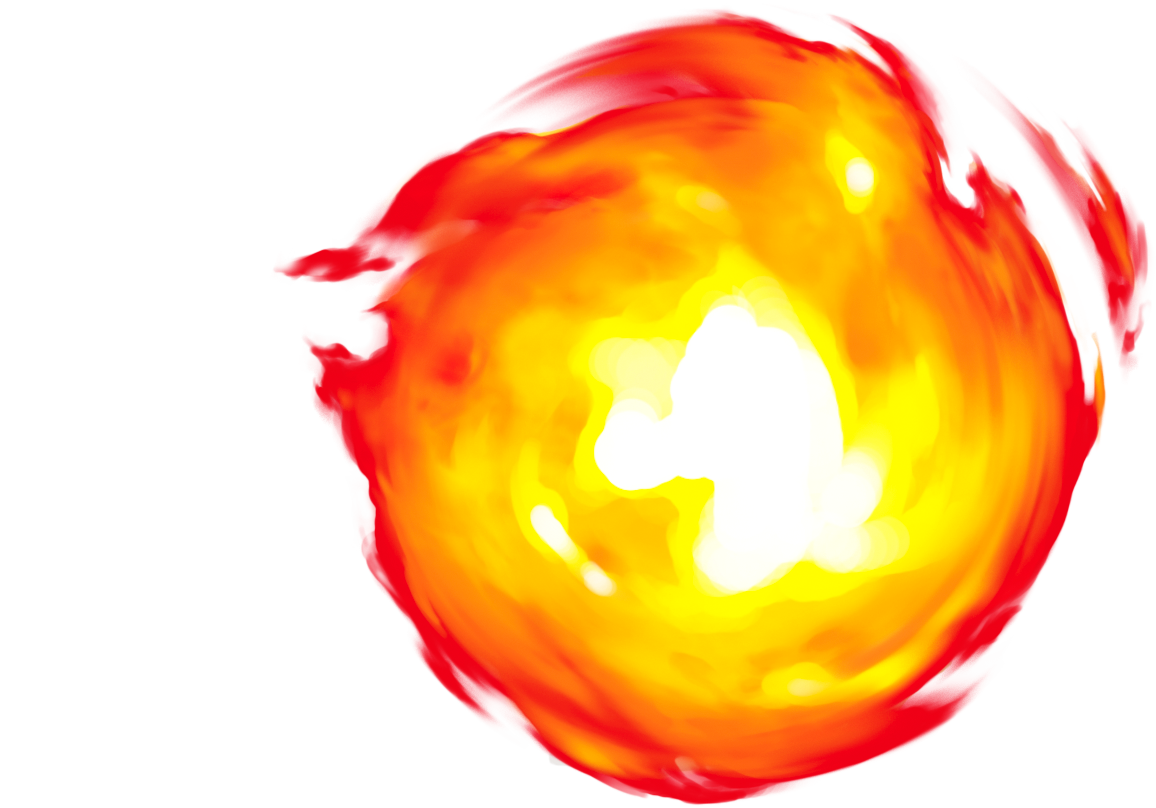
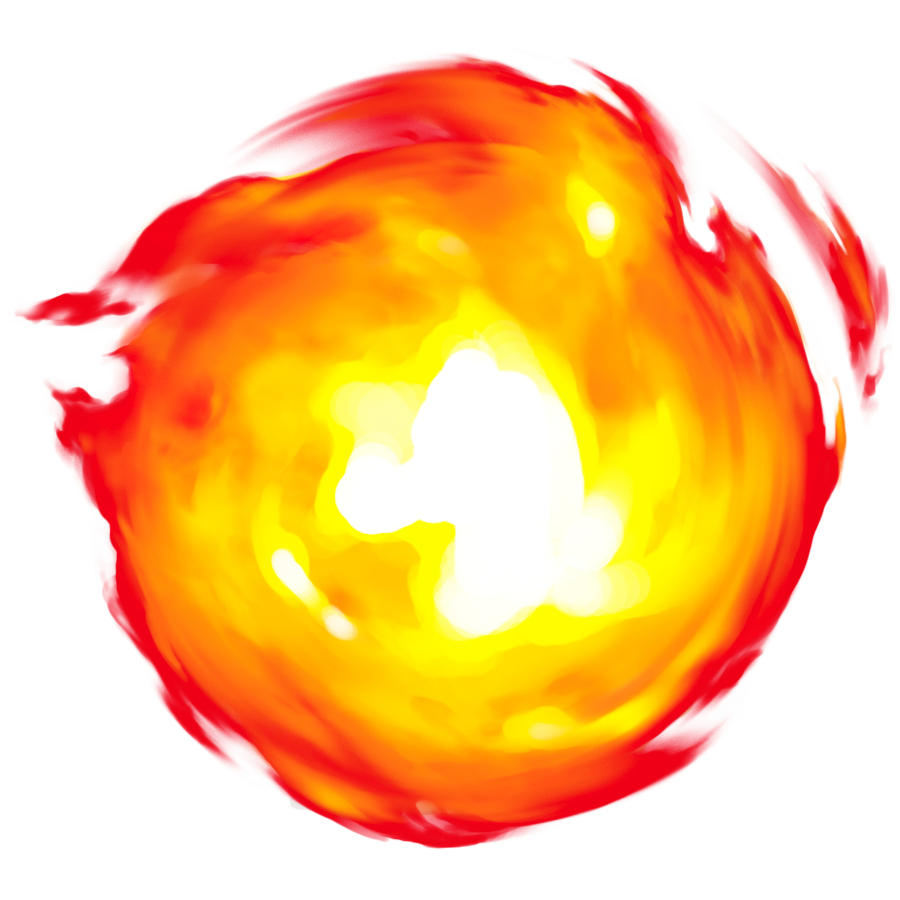
first implementation of sprite effect

diff --git a/Dungeons/Entity.h b/Dungeons/Entity.h
@@ -3,6 +3,7 @@
 #include "Model.h"
 
 #include "glm/glm.hpp"
+#include "glhelp.h"
 
 #include <functional>
 #include <unordered_map>
@@ -24,9 +25,6 @@ struct EntityId
     EntityId( const char (&entityName)[ N ] )
     {
         std::strncpy( (char*) &bitPattern, entityName, sizeof( bitPattern ) );
-        
-        if ( std::strlen( entityName ) > 8 )
-            std::printf( "Warning: EntityId initialized with overlength name \"%s\".", entityName );
     }
 };
 
@@ -82,12 +80,86 @@ struct Entity
 
 typedef std::unordered_map< EntityId, Entity > EntityCollection;
 
-template< typename F, typename S >
-struct Pair
+
+inline void CreateBillboardMatrix( glm::mat4& bbmat, glm::vec3 right, glm::vec3 up, glm::vec3 look, glm::vec3 pos )
 {
-    F first;
-    S second;
-};
+    bbmat[0][0] = right.x;
+    bbmat[0][1] = right.y;
+    bbmat[0][2] = right.z;
+    bbmat[0][3] = 0;
+    bbmat[1][0] = up.x;
+    bbmat[1][1] = up.y;
+    bbmat[1][2] = up.z;
+    bbmat[1][3] = 0;
+    bbmat[2][0] = look.x;
+    bbmat[2][1] = look.y;
+    bbmat[2][2] = look.z;
+    bbmat[2][3] = 0;
+    // Add the translation in as well.
+    bbmat[3][0] = pos.x;
+    bbmat[3][1] = pos.y;
+    bbmat[3][2] = pos.z;
+    bbmat[3][3] = 1;
+}
+
+inline glm::mat4 BillboardPoint( glm::vec3 pos, glm::vec3 camPos, glm::vec3 camUp )
+{	// create the look vector: pos -> camPos
+    glm::vec3	look	= glm::normalize( camPos - pos );
+    
+    // right hand rule cross products
+    glm::vec3	right	= glm::cross( camUp, look );
+    glm::vec3	up		= glm::cross( look, right );
+    
+    glm::mat4	bbmat;
+    CreateBillboardMatrix( bbmat, right, up, look, pos );
+    
+    // apply the billboard
+    return bbmat;
+}
+
+inline glm::mat4 BillboardAxisY( glm::vec3 pos, glm::vec3 camPos )
+{	// create the look vector: pos -> camPos
+    glm::vec3	look	= camPos - pos;
+    look.y = 0;
+    look = glm::normalize( look );
+
+    
+    // right hand rule cross products
+    glm::vec3	up		= glm::vec3( 0, 1, 0 );
+    glm::vec3	right	= glm::cross( up, look );
+    
+    glm::mat4	bbmat;
+    CreateBillboardMatrix( bbmat, right, up, look, pos );
+    
+    // apply the billboard
+    return bbmat;
+}
+
+inline glm::mat4 BillboardAxis( glm::vec3 pos, glm::vec3 camPos, glm::vec3 axis )
+{	// create the look vector: pos -> camPos
+    glm::vec3	look	= glm::normalize( camPos - pos );
+    
+    // right hand rule cross products
+    glm::vec3	up		= axis;
+    glm::vec3	right	= glm::normalize( glm::cross( up, look ) );
+    look = glm::cross( right, up );
+    
+    glm::mat4	bbmat;
+    CreateBillboardMatrix( bbmat, right, up, look, pos );
+    
+    // apply the billboard
+    return bbmat;
+}
+
+inline glm::vec3 extract_eye_pos( glm::mat4 model, glm::mat4 view )
+{
+    using namespace glm;
+    mat4 model_view = view * model;
+    vec4 d          = vec4( vec3( model_view[3] ), 1 );
+    
+    return vec3( -d * model_view );
+    //return vec4( (model * view)[3] );
+}
 
 struct GraphicalComponent
 {
@@ -98,7 +170,7 @@ struct GraphicalComponent
     bool        translucent;
     GLProgram*  program = 0;
     Model*      model   = 0;
-    Sprite*     sprite  = 0;
+    Model*      sprite  = 0;
     glm::vec4   color   = { 1, 1, 1, 0 };
     
     Delegate    delegate;
@@ -111,6 +183,7 @@ struct GraphicalComponent
     
     void update( EntityCollection& entities, glm::mat4 view, glm::mat4 proj )
     {
+        using namespace glm;
         if ( !visible )
             return;
         
@@ -126,7 +199,20 @@ struct GraphicalComponent
         if ( model )
             model->render( entities[ entityId ].transform_matrix(), view, proj, GL_TRIANGLES );
         
-        //delegate( this, model, view, proj );
+        if ( sprite )
+        {
+            Entity ntt = entities[ entityId ];
+
+            mat4 mod = ntt.transform_matrix();
+            
+            mod *= BillboardPoint( vec3( 0, 0, 0 ), vec3( row( view, 2 ) ), vec3( column( view, 1 ) ) );
+            
+            //mod *= BillboardAxisY( vec3( 0, 0, 0 ), vec3( row( view, 2 ) ) );
+            
+            //mod = lookAt( ntt.position, vec3( row( view, 2 ) ), vec3( column( view, 1 ) ) );
+            
+            sprite->render( mod, view, proj, GL_TRIANGLES );
+        }
     }
 };
 

diff --git a/Dungeons/Model.cpp b/Dungeons/Model.cpp
@@ -56,3 +56,36 @@ void Model::render
         }
     }
 }
+
+void Sprite::render(glm::mat4 model, glm::mat4 view, glm::mat4 proj) const
+{
+    /*glBegin(GL_TRIANGLE_FAN);
+    glVertex3f(10, -12, 0);
+    glVertex3f(10, 12, 0);
+    glVertex3f(-10, 12, 0);
+    glVertex3f(-10, -12, 0);
+    glEnd();*/
+}
+
+
+
+
+
+
+
+
+
+
+
+
+
+
+
+
+
+
+
+
+
+
+

diff --git a/Dungeons/GameViewController.mm b/Dungeons/GameViewController.mm
@@ -169,7 +169,7 @@
     {
         GraphicalComponent bullet( bulletId );
         bullet.program = _game->_program.get();
-        bullet.model = &_game->_model;
+        bullet.sprite = &_game->_model;
         
         _game->_graphics.push_back( bullet );
     }
